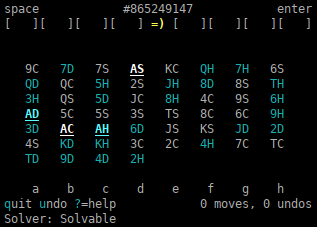
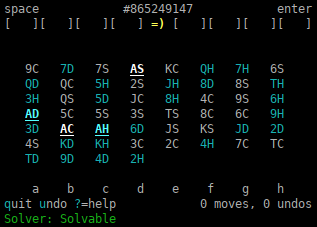
Highlights: add support for highlighting adjacent cards

Changed region(s): [[0.0, 0.9251, 0.3691, 0.9868]]

diff --git a/src/freecell.c b/src/freecell.c
@@ -48,7 +48,6 @@ struct move {
 	struct move *next;
 	int seln;
 	struct column *src;
-	struct column *dest;
 };
 
 char *suitesymbols[] = {"S", "H", "C", "D"};
@@ -71,8 +70,10 @@ int solver = SOLVER_DISABLED;
 
 int wantquit = 0;
 
-int highlightnext = 0;
+int highlight = 0;
+int adjacent = 0;
 int animate = 1;
+int skipdelay = 0;
 int automove_delay = AUTOMOVE_DELAY;
 
 unsigned int seed;
@@ -101,8 +102,6 @@ void newgame() {
 }
 
 char value_to_char(int value) {
-	char valuechar;
-
 	switch (value) {
 		case 1:
 			return 'A';
@@ -145,9 +144,30 @@ void cardstr(struct card *c, int sel) {
 		}
 	}
 
-	int n = pile[c->kind] ? pile[c->kind]->value + 1 : 1;
-	if(c->value == n && highlightnext)
-		attron(A_BOLD | A_UNDERLINE);
+	if (highlight) {
+		if ((!wselected && !selected) || !adjacent) {
+			int n = pile[c->kind] ? pile[c->kind]->value + 1 : 1;
+			if(c->value == n)
+				attron(A_BOLD | A_UNDERLINE);
+		}
+	}
+	if (adjacent) {
+		if (wselected && (c->kind & 1) != (work[selcol]->kind & 1)) {
+			if (c->value == work[selcol]->value + 1 ||
+				c->value == work[selcol]->value - 1) {
+				attron(A_BOLD | A_UNDERLINE);
+			}
+		}
+
+		if (selected) {
+			if ((c->kind & 1) != (column[selcol].card[column[selcol].ncard - seln]->kind & 1)) {
+				if (c->value == column[selcol].card[column[selcol].ncard - seln]->value + 1 ||
+					c->value == column[selcol].card[column[selcol].ncard - seln]->value - 1) {
+					attron(A_BOLD | A_UNDERLINE);
+				}
+			}
+		}
+	}
 
 	addstr(buf);
 	attrset(A_NORMAL);
@@ -217,8 +237,16 @@ void render() {
 	mvaddch(6 + height, 10, '?');
 	attrset(A_NORMAL);
 	if (solver != SOLVER_DISABLED) {
+		if (!solver) {
+			attrset(COLOR_PAIR(7));
+		} else if (solver == 2 || solver == 4) {
+			attrset(COLOR_PAIR(4));
+		} else {
+			attrset(COLOR_PAIR(6));
+		}
 		snprintf(buf, sizeof(buf), "Solver: %s", solverstatus[solver]);
 		mvaddstr(7 + height, 0, buf);
+		attrset(A_NORMAL);
 	}
 	if (wantquit) {
 		snprintf(buf, sizeof(buf), "Press q again to confirm quit");
@@ -441,7 +469,6 @@ void pushmove(struct move **movelist, struct column *scol, int seln, struct colu
 	m->next = *movelist;
 	m->src = scol;
 	m->seln = seln;
-	m->dest = dcol;
 	*movelist = m;
 }
 
@@ -480,6 +507,7 @@ void metamove(struct column *scol, int seln, struct column *dcol, int *freecells
 	int nextcol = 0;
 	int nseln = 0;
 	int ncol = 0;
+	skipdelay = 1;
 	struct move *tempmovelist = 0;
 	nfree = popcount(*freecells) + 1;
 	mfree = popcount(freecolumns);
@@ -505,6 +533,7 @@ void metamove(struct column *scol, int seln, struct column *dcol, int *freecells
 		}
 
 		nextcol = rightmostbit(freecolumns);
+		nextcol = (nextcol >= 0)? nextcol : 0;
 		freecolumns &= ~(1 << nextcol);
 
 		pushmove(&tempmovelist, &column[nextcol], nseln, dcol);
@@ -553,7 +582,7 @@ void metamove(struct column *scol, int seln, struct column *dcol, int *freecells
 		m = popmove(&tempmovelist);
 		metamove(m->src, m->seln, dcol, freecells, freecolumns);
 		for(int i = 7; i >= 0; i--) {
-			if(&column[i] == m->dest) {
+			if(&column[i] == m->src) {
 				freecolumns |= (1 << i);
 				break;
 			}
@@ -647,7 +676,7 @@ void helpscreen() {
 	mvaddstr(3, 0, "automatically  be  moved  to  the foundation");
 	mvaddstr(4, 0, "piles.");
 	mvaddstr(6, 0, "Modern freecell was invented by Paul Alfille");
-	mvaddstr(7, 0, "in 1978 - http://wikipedia.org/wiki/Freecell");
+	mvaddstr(7, 0, "in 1978: https://wikipedia.org/wiki/Freecell");
 	mvaddstr(8, 0, "Almost every game is solvable, but the level");
 	mvaddstr(9, 0, "of difficulty can vary a lot.");
 	attrset(COLOR_PAIR(4));
@@ -661,7 +690,7 @@ void helpscreen() {
 
 void usage() {
 	printf("freecell " RELEASE " by Linus Akesson\n");
-	printf("http://www.linusakesson.net\n");
+	printf("https://www.linusakesson.net\n");
 	printf("\n");
 	printf("Usage: freecell [options] [game#]\n");
 	printf("\n");
@@ -675,7 +704,9 @@ void usage() {
 	printf("\n");
 	printf("-i       --instant      Don't animate metamoves.\n");
 	printf("\n");
-	printf("-H       --highlight    Highlight next card to move to foundation.\n");
+	printf("-H       --highlight    Highlight next cards to move to foundation.\n");
+	printf("\n");
+	printf("-a       --adjacent     Highlight cards adjacent to current selection.\n");
 	printf("\n");
 	printf("-h       --help         Displays this information.\n");
 	printf("-V       --version      Displays brief version information.\n");
@@ -690,6 +721,7 @@ int main(int argc, char **argv) {
 		{"solver", 0, 0, 'S'},
 		{"instant", 0, 0, 'i'},
 		{"highlight", 0, 0, 'H'},
+		{"adjacent", 0, 0, 'a'},
 		{"suites", 1, 0, 's'},
 		{"delay", 1, 0, 'd'},
 		{0, 0, 0, 0}
@@ -701,7 +733,7 @@ int main(int argc, char **argv) {
 	int needssolving = 1;
 
 	do {
-		opt = getopt_long(argc, argv, "hVeSiHs:d:", longopts, 0);
+		opt = getopt_long(argc, argv, "hVeSiHas:d:", longopts, 0);
 		switch(opt) {
 			case 0:
 			case 'h':
@@ -730,7 +762,10 @@ int main(int argc, char **argv) {
 				animate = 0;
 				break;
 			case 'H':
-				highlightnext = 1;
+				highlight = 1;
+				break;
+			case 'a':
+				adjacent = 1;
 				break;
 			case 'S':
 				switch (WEXITSTATUS(system("fc-solve --version >/dev/null 2>&1"))) {
@@ -771,6 +806,8 @@ int main(int argc, char **argv) {
 	init_pair(3, COLOR_CYAN, COLOR_BLUE);
 	init_pair(4, COLOR_YELLOW, -1);
 	init_pair(5, COLOR_WHITE, -1);
+	init_pair(6, COLOR_RED, -1);
+	init_pair(7, COLOR_GREEN, -1);
 	while(running) {
 		int c;
 
@@ -782,8 +819,11 @@ int main(int argc, char **argv) {
 			render();
 			if(automove()) {
 				needssolving = 1;
-				usleep(automove_delay);
+				if (!skipdelay)
+					usleep(automove_delay);
+				skipdelay = 0;
 			} else {
+				skipdelay = 0;
 				break;
 			}
 		}

diff --git a/README.md b/README.md
@@ -22,7 +22,7 @@ And then, with following command, you'll be able to start with deal #0 and conti
 * Improved formula for supermoves/metamoves. Original implementation considered each empty cascade as one more freecell, while more correct formula is (M^2)*(N+1), which allows to move much more cards at once as long as you have enough empty cascades and freecells. This allows to do fewer tedious explicit moves and most modern FreeCell implementations have this out-of-box.
 * Step-by-step metamove animation. You can see exactly how metamoves are performed. If you don't want animations, though, you can specify -i (--instant) option. Also, you can adjust animation delay (in microseconds) via -d (--delay) option.
 * Accidental quit protection. Now hitting "q" doesn't instantly terminate the game, instead it asks you to hit "q" again if you really meant to quit game.
-* Option -H (--highlight) to highlight next card of a suit to move to foundation, so that you won't have hard time tracking down the aces at the beginning of game.
+* Option -H (--highlight) to highlight next card of a suit to move to foundation, so that you won't have hard time tracking down the aces at the beginning of game. Also add -a (--adjacent) option to highlight cards adjacent to current selection.
 * Supports solvability check via fc-solve. Enable fc-solve support with -S (--solver) option. No more getting stuck with dead-end unsolvable configurations for hours. After each move, solver will check and report whether this board is still solvable, or if it is game over and it's time to undo or restart.
 
 This requires to install fc-solve. You can install it on Debian/Ubuntu based distros with following command.
